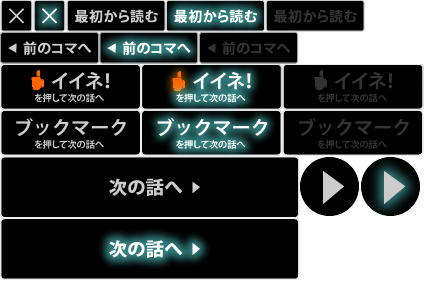
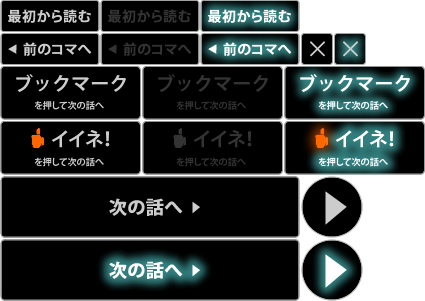
change sprite image

diff --git a/src/main/js/pc.css b/src/main/js/pc.css
@@ -221,28 +221,29 @@ body {
   display:           block;
 }
 
-#close         {background-position:     0 0; width: 33px; height: 33px;}
-#close:hover, #close.active {background-position: -33px 0; width: 33px; height: 33px;}
 
-#first_scene         {background-position:  -66px 0; width: 100px; height: 32px;}
-#first_scene:hover, #first_scene.active {background-position: -165px 0; width: 100px; height: 32px;}
-#first_scene_disable {background-position: -265px 0; width: 100px; height: 32px;}
+#close {background-position: -301px -33px;width: 32px;height: 32px;}
+#close:hover, #close.active {background-position: -334px -33px;width: 32px;height: 32px;}
 
-#prev_scene         {background-position:      0 -32px; width: 100px; height: 32px;}
-#prev_scene:hover, #prev_scene.active {background-position:  -99px -32px; width: 100px; height: 32px;}
-#prev_scene_disable {background-position: -199px -32px; width: 100px; height: 32px;}
+#first_scene {background-position: 0 0;width: 100px;height: 32px;}
+#first_scene:hover, #first_scene.active  {background-position: -200px 0;width: 100px;height: 32px;}
+#first_scene_disable {background-position: -100px 0;width: 100px;height: 32px;}
 
-#vote         {background-position:      0 -64px; width: 141px; height: 46px;}
-#vote:hover, #vote.active {background-position: -141px -64px; width: 141px; height: 46px;}
-#vote_disable {background-position: -282px -64px; width: 141px; height: 46px;}
+#prev_scene {background-position: 0 -33px;width: 100px;height: 32px;}
+#prev_scene:hover, #prev_scene.active {background-position: -200px -33px;width: 100px;height: 32px;}
+#prev_scene_disable {background-position: -100px -33px;width: 100px;height: 32px;}
 
-#bookmark         {background-position:      0 -109px; width: 141px;height: 46px;}
-#bookmark:hover, #bookmark.active {background-position: -141px -109px; width: 141px;height: 46px;}
-#bookmark_disable {background-position: -282px -109px; width: 142px;height: 46px;}
+#vote {background-position: 0 -121px;width: 141px;height: 54px;}
+#vote_disable {background-position: -142px -121px;width: 141px;height: 54px;}
+#vote:hover, #vote.active  {background-position: -284px -121px;width: 141px;height: 54px;}
 
-#next         {background-position: 0 -156px;width: 300px;height: 62px;}
-#next:hover, #next.active {background-position: 0 -218px;width: 300px;height: 62px;}
+#bookmark  {background-position: 0 -66px;width: 141px;height: 54px;}
+#bookmark_disable {background-position: -142px -66px;width: 141px;height: 54px;}
+#bookmark:hover, #bookmark.active {background-position: -284px -66px;width: 141px;height: 54px;}
 
-#start         {background-position: -300px -156px;width: 60px;height: 61px;}
-#start:hover, #start.active {background-position: -361px -156px;width: 60px;height: 61px;}
+#next {background-position: 0 -176px;width: 300px;height: 62px;}
+#next:hover, #next.active{background-position: 0 -239px;width: 300px;height: 62px;}
+
+#start  {background-position: -301px -176px;width: 62px;height: 62px;}
+#start:hover, #start.active {background-position: -301px -239px;width: 62px;height: 62px;}
 
